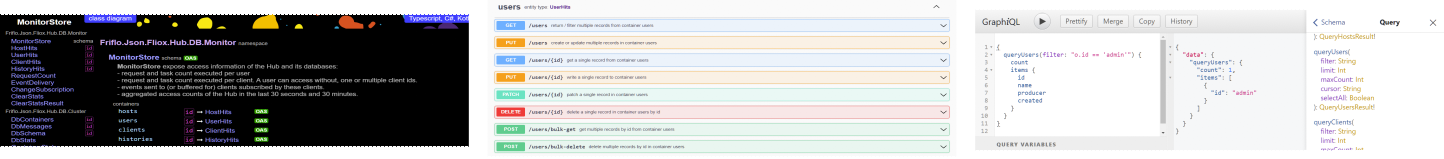
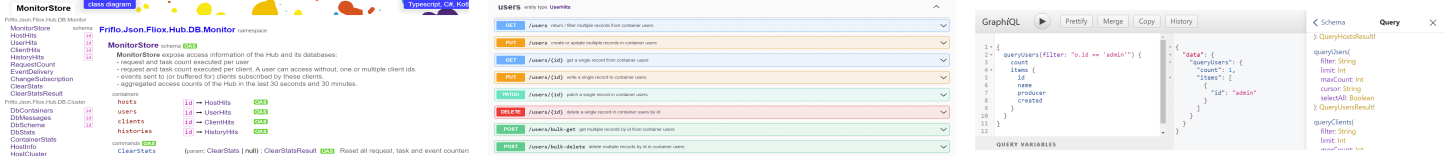
README.md - add MonitorStore-html.png as day theme

Changed region(s): [[0.0, 0.0, 0.3428, 0.9811]]

diff --git a/README.md b/README.md
@@ -207,7 +207,7 @@ The links in the table above navigate to pages utilizing the generated schemas. 
 
 
 [<img src="docs/images/schema-screenshots.png" width="770" height="85">](Json/Fliox/Schema/README.md#html-documentation)  
-*screenshots: HTML documentation, Swagger UI & GraphiQL*
+*screenshots: Schema documentation, Swagger UI & GraphiQL*
 
 
 
